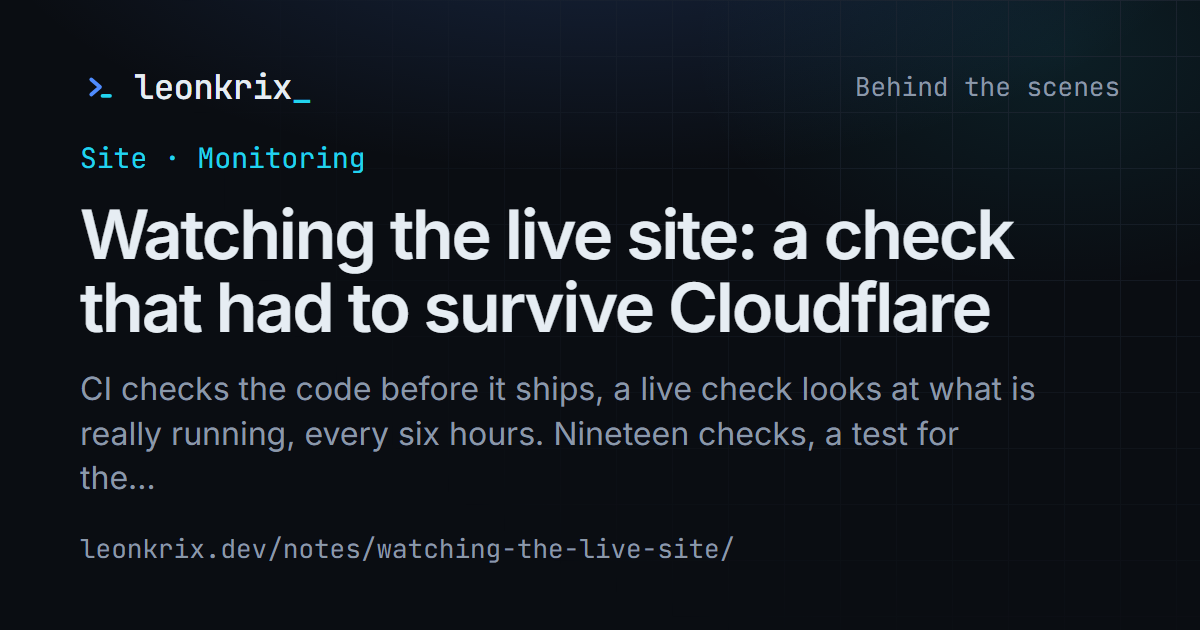
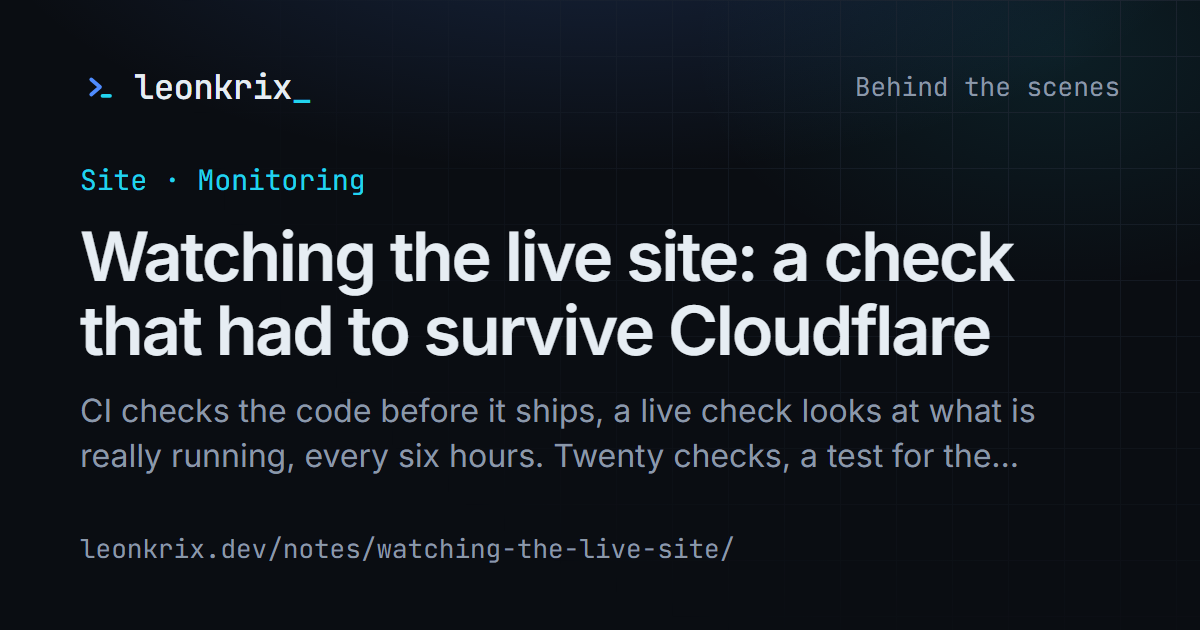
feat: check the WhyMail privacy policy daily and report changes as an issue (#88)
A workflow reads the published part of the policy from the private app
repository with a read-only deploy key and compares it with the copy on
this site.

A change opens one issue with two hashes and no text, because this
repository is public.

Nothing is published automatically. 

Also updates the note about the live check (20 checks).

diff --git a/tests/build-output/whymail-workflow.test.ts b/tests/build-output/whymail-workflow.test.ts
@@ -1,0 +1,64 @@
+import { readFileSync } from 'node:fs';
+import { join } from 'node:path';
+
+import { describe, expect, it } from 'vitest';
+
+/**
+ * The workflow that compares the privacy policy of the WhyMail app with the copy on this site holds a
+ * deploy key for a private repository. These checks keep it small and keep the key where it is: a
+ * change that lets a pull request or another branch reach the secret fails here.
+ */
+const workflow = readFileSync(
+  join(import.meta.dirname, '..', '..', '.github', 'workflows', 'whymail-policy.yml'),
+  'utf8',
+);
+
+/** The part of the file before the jobs (the triggers and the permissions) */
+const header = workflow.slice(0, workflow.indexOf('\njobs:'));
+const uses = [...workflow.matchAll(/^\s*-?\s*uses:\s*(\S+)/gm)].map((match) => match[1] ?? '');
+
+describe('the workflow that compares the WhyMail policy', () => {
+  it('runs only on a schedule and by hand, never for a pull request or a push', () => {
+    const triggers = header.slice(header.indexOf('\non:'));
+    expect(triggers).toContain('schedule:');
+    expect(triggers).toContain('workflow_dispatch:');
+    expect(triggers).not.toMatch(
+      /pull_request|pull_request_target|push:|workflow_run|issue_comment/,
+    );
+  });
+
+  it('has no permissions by default and asks for only two in its job', () => {
+    expect(header).toMatch(/^permissions: \{\}$/m);
+    const job = workflow.slice(workflow.indexOf('\njobs:'));
+    const permissions = job.slice(job.indexOf('permissions:'), job.indexOf('steps:'));
+    expect(permissions).toMatch(/contents: read/);
+    expect(permissions).toMatch(/issues: write/);
+    expect(permissions.match(/: (read|write)/g)).toHaveLength(2);
+  });
+
+  it('keeps the deploy key in the environment that only main may use, and uses it once', () => {
+    expect(workflow).toMatch(/^\s+environment: whymail-policy$/m);
+    expect(workflow.match(/secrets\.WHYMAIL_DEPLOY_KEY/g)).toHaveLength(1);
+    expect(workflow).toMatch(/ssh-key: \$\{\{ secrets\.WHYMAIL_DEPLOY_KEY \}\}/);
+    // Only the one file of the private repository is written to the runner, and nothing stays
+    expect(workflow).toContain('sparse-checkout: docs/legal/privacy-policy.md');
+    expect(workflow).not.toMatch(/persist-credentials: true/);
+  });
+
+  it('pins every action to a full commit', () => {
+    expect(uses.length).toBeGreaterThan(0);
+    for (const action of uses) {
+      expect(action, action).toMatch(/^[\w.-]+\/[\w.-]+@[0-9a-f]{40}$/);
+    }
+  });
+
+  it('puts no value of an earlier step into the script, only into the environment', () => {
+    const scripts = workflow.slice(workflow.indexOf('run: |'));
+    expect(scripts).not.toMatch(/\$\{\{\s*(steps|inputs|github\.event)/);
+  });
+
+  it('puts no text of the policy into the issue', () => {
+    expect(workflow).not.toMatch(/cat .*privacy-policy|privacy-policy\.md\)/);
+    expect(workflow).toContain('sha256');
+  });
+});

diff --git a/src/texts/whymail/README.md b/src/texts/whymail/README.md
@@ -1,0 +1,41 @@
+# The privacy policy of the WhyMail app
+
+WhyMail is an Android app. Its privacy policy is published on this site, at `/whymail/datenschutz/`
+(English first, German second and legally binding), because the Google Play Console needs a public
+address and the publisher of the app owns this domain. The address is entered in the Play Console, so
+it never changes.
+
+The text is written in the repository of the app (`docs/legal/privacy-policy.md`, private). This
+folder holds what this site needs from it:
+
+| File                          | What it is                                                                                                                                              |
+| ----------------------------- | ------------------------------------------------------------------------------------------------------------------------------------------------------- |
+| `privacy-policy.upstream.md`  | A copy of the **published part** of that file (from `# Datenschutzerklärung WhyMail` on), byte for byte. The notes for the team above it are not copied. |
+| `privacy-policy.mdx`          | The page, made from the copy. Do not edit it by hand.                                                                                                   |
+
+The personal details of the publisher are not in the text. The name and the address come from the
+build variables of the site and are drawn by CSS, like in the legal notice, so they are not in the HTML
+as text. The email address of the app is public in the store and is shown through the same protection as
+the email address of this site. The phone number is not published; a link to the legal notice takes its
+place.
+
+## Commands
+
+```bash
+pnpm whymail-policy sync <path to docs/legal/privacy-policy.md>   # take a new version, then read `git diff` and commit
+pnpm whymail-policy check <path to docs/legal/privacy-policy.md>  # only compare: prints changed=true or changed=false
+pnpm whymail-policy build                                         # make the page again from the copy
+```
+
+The conversion (`src/lib/whymail-policy.ts`) is strict: it stops at a placeholder, an email address or a
+line in the paragraph with the publisher that it does not know, and nothing is written then. The tests
+check the conversion, that the page is what the script makes from the copy, and that the page has both
+languages with the same sections.
+
+## The daily check
+
+The workflow `.github/workflows/whymail-policy.yml` runs once a day. It reads the file of the app with a
+read-only deploy key, compares the published part with the copy and opens an issue when they differ.
+Nothing is published automatically: the maintainer reads the change, checks it against the build that
+the testers get, and merges the update. The issue contains no text of the policy, only two hashes,
+because this repository is public.
